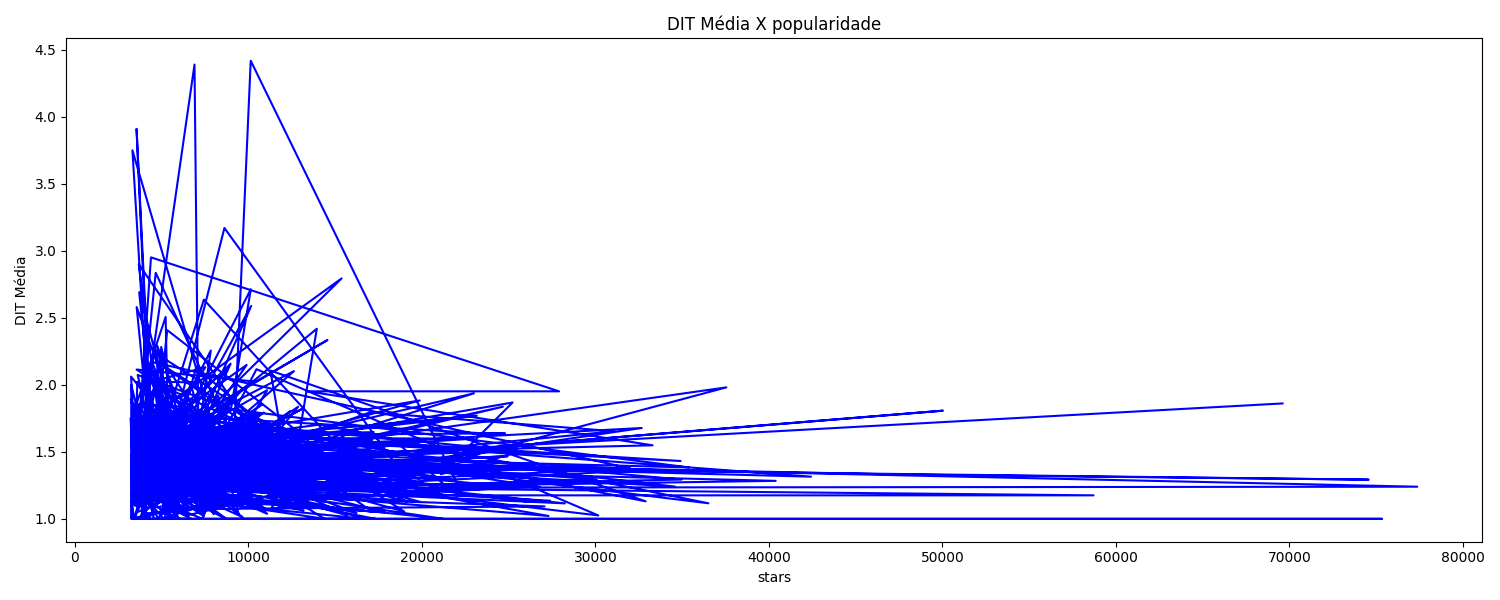
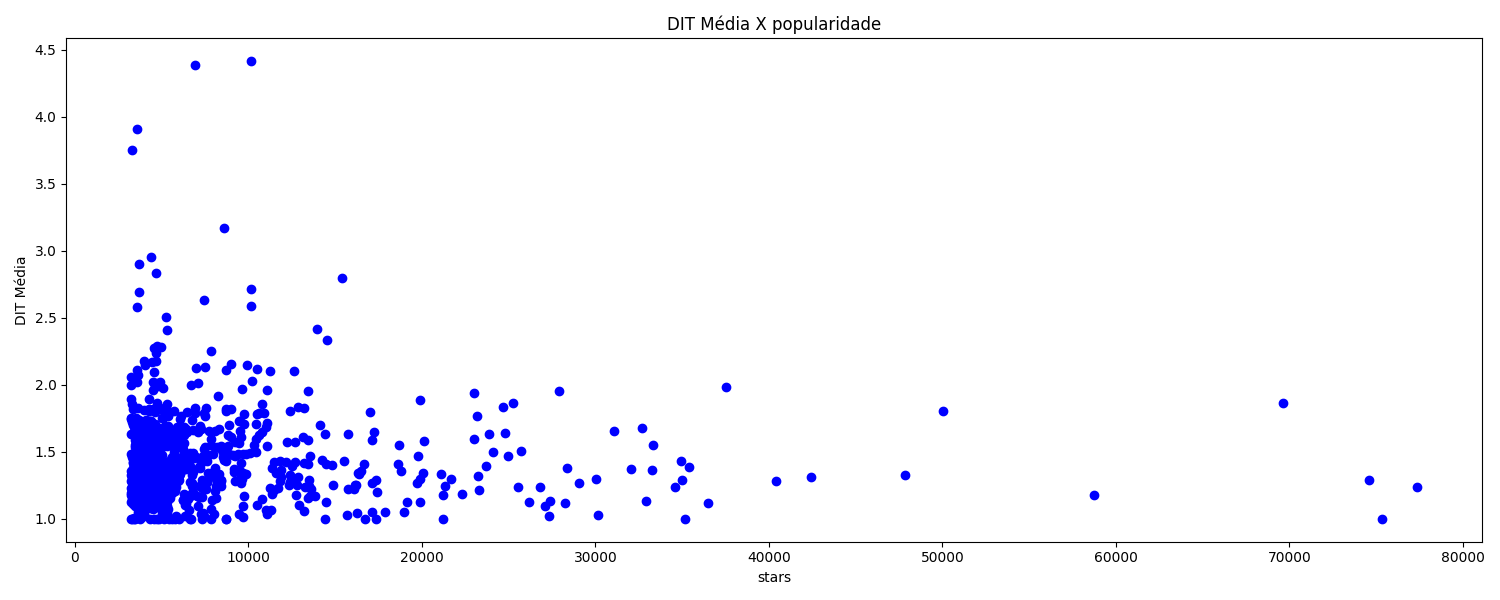
go back to scatter graphs

diff --git a/plot/quality.py b/plot/quality.py
@@ -23,7 +23,7 @@ def quality_created_at(dataframe):
     plt.clf()
 
     # dit_media
-    plt.plot(created_at, dit_media, label='DIT Média', color='blue')
+    plt.scatter(created_at, dit_media, label='DIT Média', color='blue')
     plt.title('DIT Média X Maturidade')
     plt.xlabel('created_at')
     plt.ylabel('DIT Média')
@@ -32,7 +32,7 @@ def quality_created_at(dataframe):
     plt.clf()
 
     # lcom_media
-    plt.plot(created_at, lcom_media, label='LCOM Média', color='blue')
+    plt.scatter(created_at, lcom_media, label='LCOM Média', color='blue')
     plt.title('LCOM Média X Maturidade')
     plt.xlabel('created_at')
     plt.ylabel('LCOM Média')
@@ -61,7 +61,7 @@ def quality_loc(dataframe):
     plt.clf()
 
     # dit_media
-    plt.plot(loc_soma, dit_media, label='DIT Média', color='blue')
+    plt.scatter(loc_soma, dit_media, label='DIT Média', color='blue')
     plt.title('DIT Média X tamanho')
     plt.xlabel('loc')
     plt.ylabel('DIT Média')
@@ -70,7 +70,7 @@ def quality_loc(dataframe):
     plt.clf()
 
     # lcom_media
-    plt.plot(loc_soma, lcom_media, label='LCOM Média', color='blue')
+    plt.scatter(loc_soma, lcom_media, label='LCOM Média', color='blue')
     plt.title('LCOM Média X tamanho')
     plt.xlabel('loc')
     plt.ylabel('LCOM Média')
@@ -99,7 +99,7 @@ def quality_releases(dataframe):
     plt.clf()
 
     # dit_media
-    plt.plot(releases, dit_media, label='DIT Média', color='blue')
+    plt.scatter(releases, dit_media, label='DIT Média', color='blue')
     plt.title('DIT Média X atividade')
     plt.xlabel('releases')
     plt.ylabel('DIT Média')
@@ -108,7 +108,7 @@ def quality_releases(dataframe):
     plt.clf()
 
     # lcom_media
-    plt.plot(releases, lcom_media, label='LCOM Média', color='blue')
+    plt.scatter(releases, lcom_media, label='LCOM Média', color='blue')
     plt.title('LCOM Média X atividade')
     plt.xlabel('releases')
     plt.ylabel('LCOM Média')
@@ -137,7 +137,7 @@ def quality_stars(dataframe):
     plt.clf()
 
     # dit_media
-    plt.plot(stars, dit_media, label='DIT Média', color='blue')
+    plt.scatter(stars, dit_media, label='DIT Média', color='blue')
     plt.title('DIT Média X popularidade')
     plt.xlabel('stars')
     plt.ylabel('DIT Média')
@@ -146,7 +146,7 @@ def quality_stars(dataframe):
     plt.clf()
 
     # lcom_media
-    plt.plot(stars, lcom_media, label='LCOM Média', color='blue')
+    plt.scatter(stars, lcom_media, label='LCOM Média', color='blue')
     plt.title('LCOM Média X popularidade')
     plt.xlabel('stars')
     plt.ylabel('LCOM Média')
